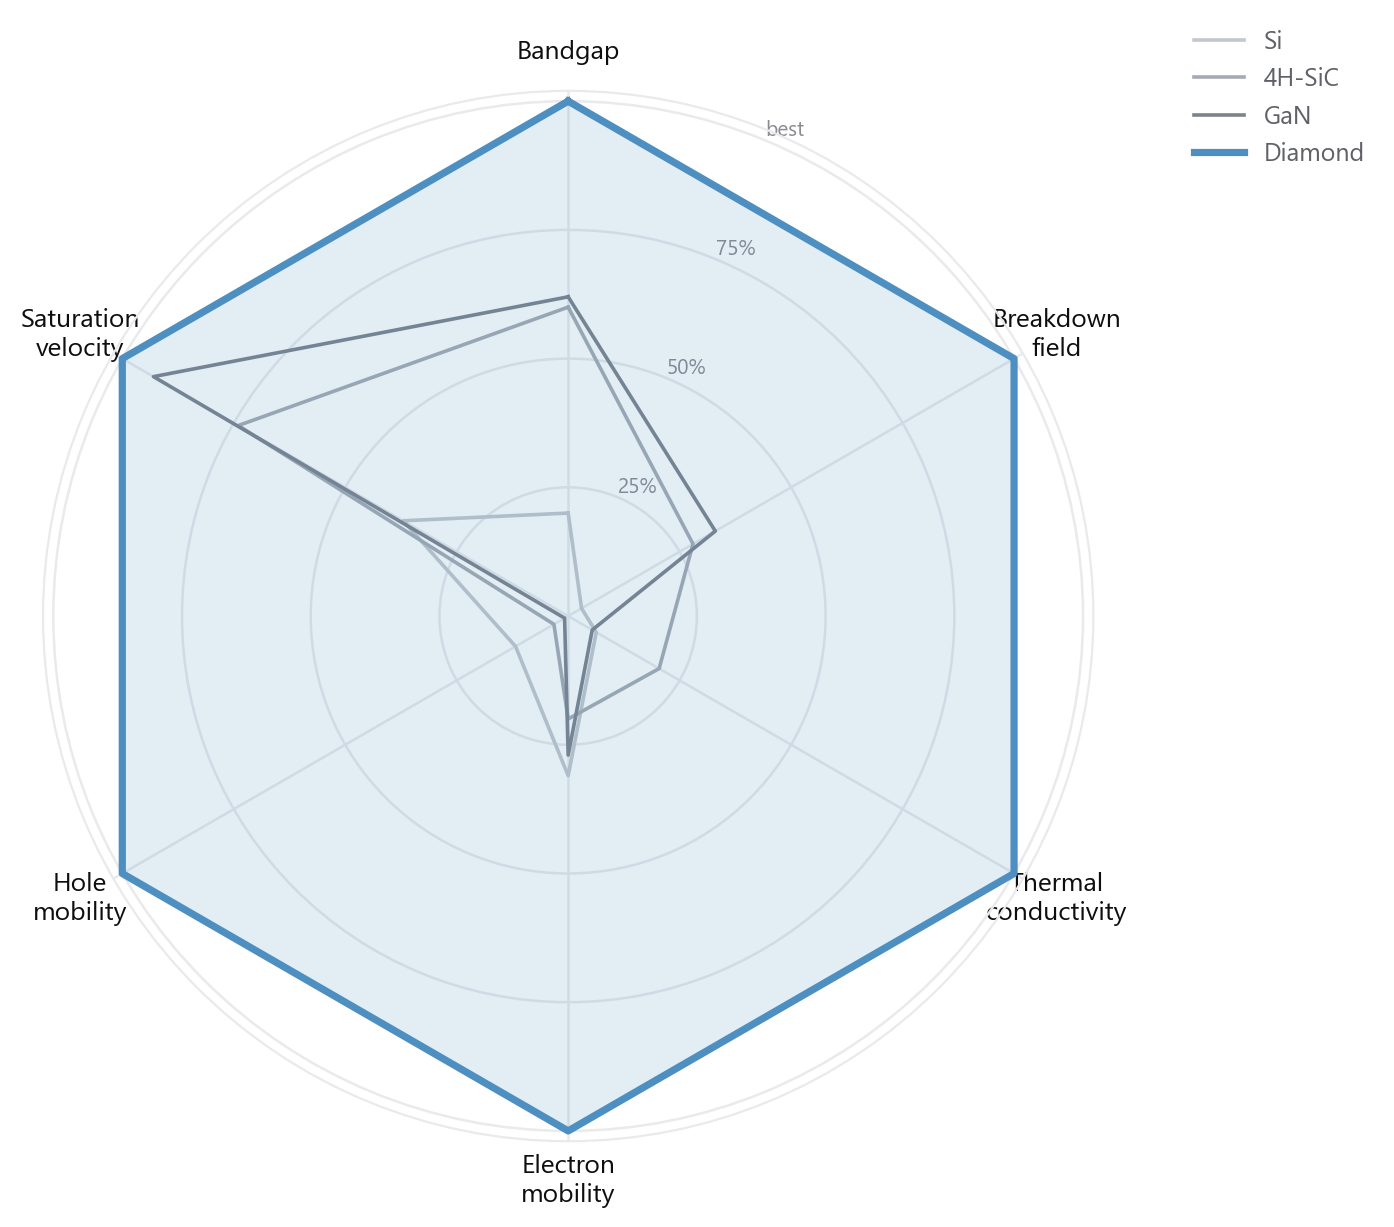
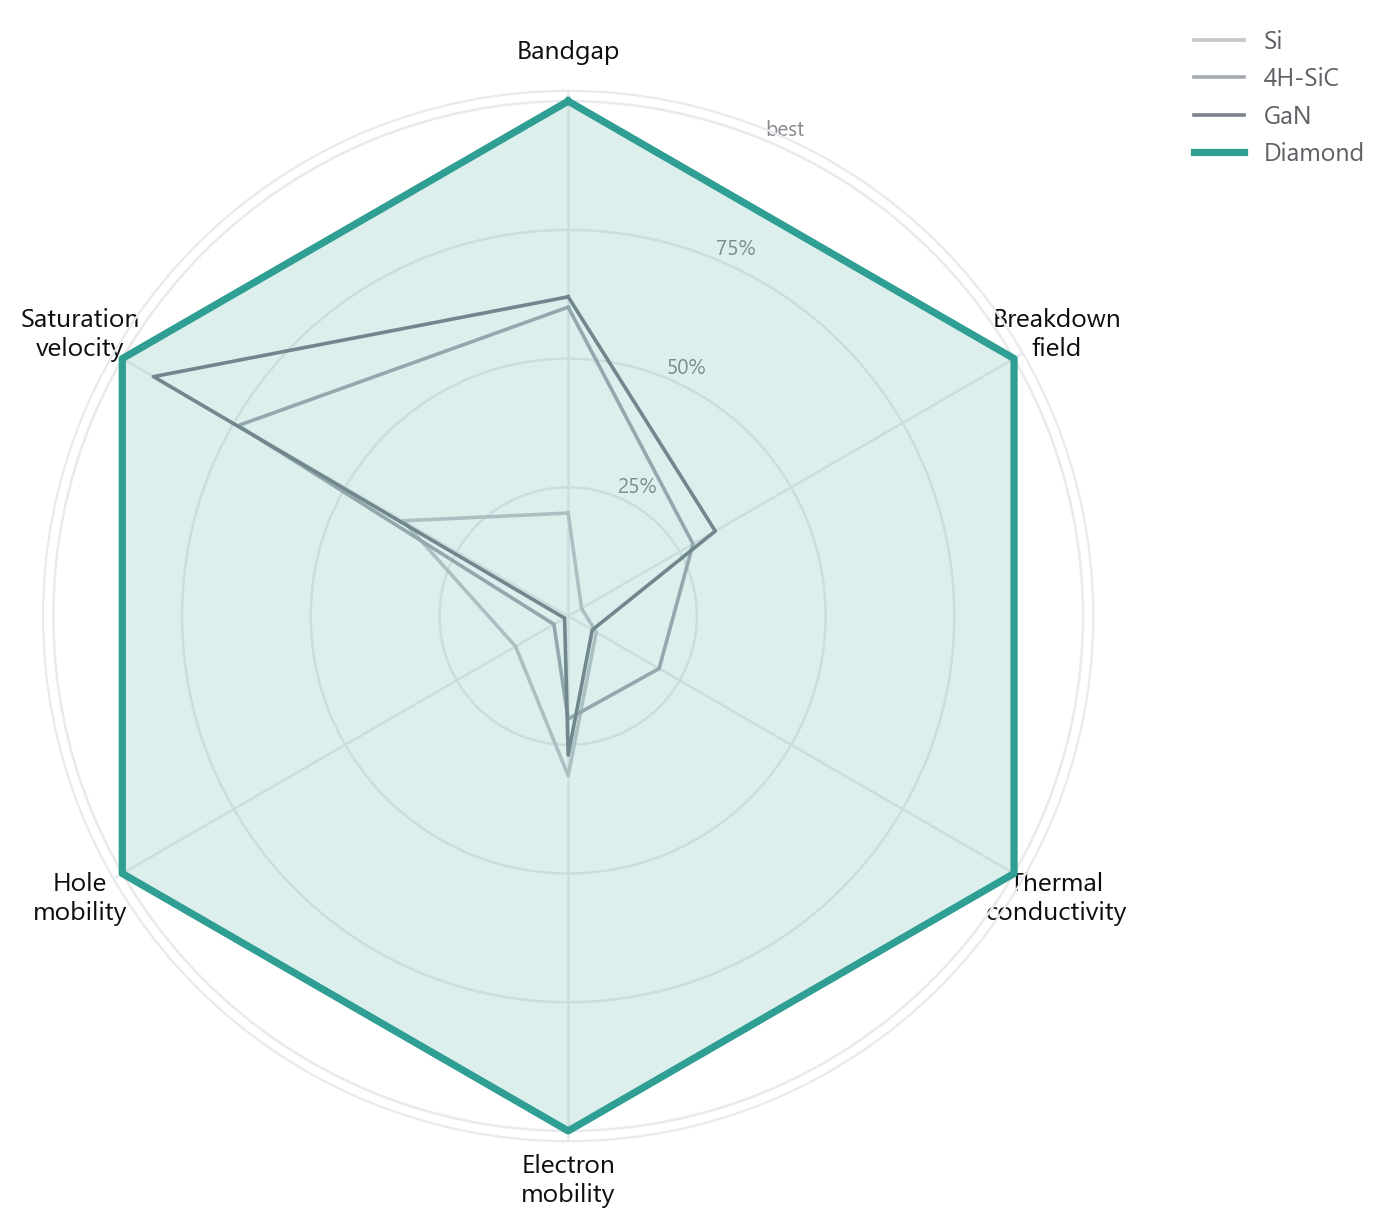
Teal accent (color round 2), LinkedIn + karalabs.ai email, inquiry API
- Deep teal #2f9e93 across charts and site accent after second color
  exploration (teal/violet/emerald vs blue)
- LinkedIn: linkedin.com/company/kara-labs in footer and contact page
- Email everywhere: [email redacted]
- Contact form now POSTs to /api/inquiry (Vercel serverless, Vercel
  KV storage with log fallback); /api/inquiries?key= to view; mailto
  fallback when offline

diff --git a/contact.html b/contact.html
@@ -12,7 +12,7 @@
   :root {
     --white:#ffffff; --paper:#f5f5f6; --line:#e9eaec;
     --ink:#0e0e10; --graphite:#5f6166; --muted:#8a8a90; --faint:#c2c2c8;
-    --steel:#6f8fa6; --steel-faint:#eef2f4;
+    --steel:#2f9e93; --steel-faint:#e9f5f3;
     --ease-out:cubic-bezier(0.16,1,0.3,1);
     --pad:clamp(24px,5.5vw,100px);
     --sans:'Inter', system-ui, sans-serif;
@@ -99,9 +99,10 @@
     <h1>Talk to us.</h1>
     <p class="lead">Whether you need a single research substrate or a roadmap to <b>delta-doped quantum material</b>, it starts with one conversation. Tell us what you're building and we'll tell you what the crystal can do.</p>
     <div class="direct">
-      <div class="d-row"><span class="k">email</span><a href="mailto:[email redacted]">[email redacted]</a></div>
+      <div class="d-row"><span class="k">email</span><a href="mailto:[email redacted]">[email redacted]</a></div>
       <div class="d-row"><span class="k">response</span><span class="v">within 2 business days</span></div>
       <div class="d-row"><span class="k">specifications</span><span class="v">full spec sheets under NDA</span></div>
+      <div class="d-row"><span class="k">linkedin</span><a href="https://www.linkedin.com/company/kara-labs" target="_blank" rel="noopener">kara-labs</a></div>
       <div class="d-row"><span class="k">sources</span><a href="sources.html">research library →</a></div>
     </div>
   </div>
@@ -132,7 +133,7 @@
       <textarea id="msg" name="msg" required placeholder="Application, quantities, timeline, target specs..."></textarea>
     </div>
     <button class="send" type="submit">Send inquiry</button>
-    <p class="f-note">Submitting opens your email client with the inquiry pre-filled, addressed to [email redacted]. Nothing is stored on this site.</p>
+    <p class="f-note">Submitting opens your email client with the inquiry pre-filled, addressed to [email redacted]. Nothing is stored on this site.</p>
   </form>
 </main>
 
@@ -142,14 +143,33 @@
 </footer>
 
 <script>
-  document.getElementById('inquiry').addEventListener('submit', function(e){
+  const form = document.getElementById('inquiry');
+  const sendBtn = form.querySelector('.send');
+  form.addEventListener('submit', async function(e){
     e.preventDefault();
     const v = id => document.getElementById(id).value.trim();
-    const subject = '[KARA inquiry] ' + v('topic') + ' — ' + v('name');
-    const body = v('msg') + '\n\n—\n' + v('name')
-      + (v('org') ? '\n' + v('org') : '')
-      + '\n' + v('email');
-    location.href = 'mailto:[email redacted]?subject=' + encodeURIComponent(subject) + '&body=' + encodeURIComponent(body);
+    const data = { name: v('name'), email: v('email'), org: v('org'), topic: v('topic'), msg: v('msg') };
+
+    // primary path: store the inquiry server-side
+    try {
+      const r = await fetch('/api/inquiry', {
+        method: 'POST',
+        headers: { 'Content-Type': 'application/json' },
+        body: JSON.stringify(data)
+      });
+      if (r.ok) {
+        sendBtn.textContent = 'Sent. We reply within 2 business days';
+        sendBtn.disabled = true;
+        sendBtn.style.opacity = '0.75';
+        form.reset();
+        return;
+      }
+    } catch (err) { /* offline or local file: fall through to email */ }
+
+    // fallback: open a pre-filled email
+    const subject = '[KARA inquiry] ' + data.topic + ' - ' + data.name;
+    const body = data.msg + '\n\n-\n' + data.name + (data.org ? '\n' + data.org : '') + '\n' + data.email;
+    location.href = 'mailto:[email redacted]?subject=' + encodeURIComponent(subject) + '&body=' + encodeURIComponent(body);
   });
 </script>
 </body>

diff --git a/api/inquiry.js b/api/inquiry.js
@@ -1,0 +1,30 @@
+// POST /api/inquiry — stores contact-form submissions.
+// Persists to Vercel KV when configured; always logs so submissions
+// are visible in Vercel runtime logs regardless.
+export default async function handler(req, res) {
+  if (req.method !== 'POST') {
+    return res.status(405).json({ ok: false, error: 'POST only' });
+  }
+  const b = req.body || {};
+  const entry = {
+    name: String(b.name || '').slice(0, 200),
+    email: String(b.email || '').slice(0, 200),
+    org: String(b.org || '').slice(0, 200),
+    topic: String(b.topic || '').slice(0, 100),
+    msg: String(b.msg || '').slice(0, 4000),
+    ts: new Date().toISOString(),
+  };
+  if (!entry.email || !entry.msg) {
+    return res.status(400).json({ ok: false, error: 'email and message required' });
+  }
+  console.log('KARA_INQUIRY', JSON.stringify(entry));
+  try {
+    const { kv } = await import('@vercel/kv');
+    await kv.lpush('inquiries', JSON.stringify(entry));
+    await kv.ltrim('inquiries', 0, 999);
+    return res.status(200).json({ ok: true, stored: 'kv' });
+  } catch (e) {
+    // KV not configured yet: submission still captured in logs
+    return res.status(200).json({ ok: true, stored: 'log' });
+  }
+}

diff --git a/api/inquiries.js b/api/inquiries.js
@@ -1,0 +1,19 @@
+// GET /api/inquiries?key=YOUR_KEY — view stored inquiries.
+// Set INQUIRY_KEY in Vercel project env vars to enable.
+export default async function handler(req, res) {
+  const key = process.env.INQUIRY_KEY;
+  if (!key) {
+    return res.status(503).json({ ok: false, error: 'Set INQUIRY_KEY env var in Vercel to enable this endpoint.' });
+  }
+  if ((req.query.key || '') !== key) {
+    return res.status(401).json({ ok: false, error: 'unauthorized' });
+  }
+  try {
+    const { kv } = await import('@vercel/kv');
+    const raw = await kv.lrange('inquiries', 0, 199);
+    const items = raw.map(r => { try { return JSON.parse(r); } catch { return r; } });
+    return res.status(200).json({ ok: true, count: items.length, items });
+  } catch (e) {
+    return res.status(503).json({ ok: false, error: 'Vercel KV not configured. Create a KV store in the Vercel dashboard and link it to this project.' });
+  }
+}

diff --git a/index.html b/index.html
@@ -18,8 +18,8 @@
     --graphite:#5f6166;
     --muted:#8a8a90;
     --faint:#c2c2c8;
-    --steel:#4d8fc0;      /* one blue, matched to the charts */
-    --steel-faint:#eaf3f9;
+    --steel:#2f9e93;      /* deep teal, matched to the charts */
+    --steel-faint:#e9f5f3;
     --ease-out: cubic-bezier(0.16, 1, 0.3, 1);
     --ease-inout: cubic-bezier(0.19, 1, 0.22, 1);
     --pad: clamp(24px, 5.5vw, 100px);
@@ -714,7 +714,7 @@
         <div class="foot-cols">
           <div class="foot-col reveal d1"><h4>Materials</h4><a href="contact.html">Research Wafer</a><a href="contact.html">Optical Wafer</a><a href="contact.html">Thermal Wafer</a><a href="contact.html">NV Host Wafer</a><a href="contact.html">Delta-Doped Wafer</a><a href="contact.html">Thin Membrane</a><a href="contact.html">Engineered Chips</a></div>
           <div class="foot-col reveal d2"><h4>Applications</h4><a href="#applications">Quantum Networks</a><a href="#applications">Quantum Sensing</a><a href="#applications">Thermal for AI</a><a href="#applications">Photonics</a><a href="#applications">Power Electronics</a><a href="#applications">Research Platforms</a></div>
-          <div class="foot-col reveal d3"><h4>Connect</h4><a href="contact.html">Talk to us</a><a href="mailto:[email redacted]">[email redacted]</a><a href="#">LinkedIn</a><a href="sources.html">Works cited</a></div>
+          <div class="foot-col reveal d3"><h4>Connect</h4><a href="contact.html">Talk to us</a><a href="mailto:[email redacted]">[email redacted]</a><a href="https://www.linkedin.com/company/kara-labs" target="_blank" rel="noopener">LinkedIn</a><a href="sources.html">Works cited</a></div>
         </div>
       </div>
       <div class="foot-bottom"><span class="fmark"><svg viewBox="0 0 100 100" fill="none" stroke="currentColor" stroke-width="4"><path d="M50 4 L94 50 L50 96 L6 50 Z" /><path d="M6 50 L50 40 L94 50" /><path d="M50 4 L50 40 L50 96" /></svg> KARA · engineered diamond</span><span>grown to specification</span><span>© 2026 Kara, Inc.</span></div>
@@ -968,7 +968,7 @@
       sub:'The top of the ladder. We pattern, etch and integrate devices into our own material and deliver working structures built to your design.',
       specs:[['Built for','integrated quantum and photonic devices'],['Typical use','custom device runs'],['Delivery','design → fabrication → verification'],['Substrate','any Kara grade']] }
   };
-  const PRODUCT_NOTE = 'Full specification sheets are available under NDA. Write to [email redacted].';
+  const PRODUCT_NOTE = 'Full specification sheets are available under NDA. Write to [email redacted].';
 
   const APPS = {
     networks: { idx:'01 · application', title:'Quantum Networks', media:'satellite.mp4', specs:[],

diff --git a/sources.html b/sources.html
@@ -12,7 +12,7 @@
   :root {
     --white:#ffffff; --paper:#f5f5f6; --line:#e9eaec;
     --ink:#0e0e10; --graphite:#5f6166; --muted:#8a8a90;
-    --steel:#4d8fc0;
+    --steel:#2f9e93;
     --pad:clamp(24px,5.5vw,100px);
     --sans:'Inter', system-ui, sans-serif;
     --display:'Inter Tight','Inter',system-ui,sans-serif;
@@ -95,12 +95,12 @@
   <div class="ref">Degen, C. L., Reinhard, F., &amp; Cappellaro, P. (2017). Quantum sensing. <em>Rev. Mod. Phys., 89,</em> 035002. <a href="https://doi.org/10.1103/RevModPhys.89.035002" target="_blank" rel="noopener">doi:10.1103/RevModPhys.89.035002</a> <span class="use">Sensitivity limits and magnetometry theory.</span> <span class="st">canonical</span></div>
   <div class="ref">Maze, J. R., et al. (2008). Nanoscale magnetic sensing with an individual electronic spin in diamond. <em>Nature, 455,</em> 644–647. <a href="https://doi.org/10.1038/nature07279" target="_blank" rel="noopener">doi:10.1038/nature07279</a> <span class="use">Nanoscale magnetometry with a single NV spin.</span> <span class="st">canonical</span></div>
 
-  <p class="note">Intrinsic single-crystal, room-temperature values. Real-world diamond device performance is currently limited by doping and wafer-scale manufacturing, not by these intrinsic material limits. Questions or data-room access: <a href="mailto:[email redacted]">[email redacted]</a></p>
+  <p class="note">Intrinsic single-crystal, room-temperature values. Real-world diamond device performance is currently limited by doping and wafer-scale manufacturing, not by these intrinsic material limits. Questions or data-room access: <a href="mailto:[email redacted]">[email redacted]</a></p>
 </main>
 
 <footer>
   <span>KARA · engineered diamond</span>
-  <span><a href="index.html">kara</a> · <a href="mailto:[email redacted]">[email redacted]</a> · © 2026 Kara, Inc.</span>
+  <span><a href="index.html">kara</a> · <a href="mailto:[email redacted]">[email redacted]</a> · © 2026 Kara, Inc.</span>
 </footer>
 
 </body>

diff --git a/make_figs.py b/make_figs.py
@@ -1,9 +1,9 @@
-"""Regenerate research figures in the KARA site palette."""
+"""Regenerate research figures in the KARA site palette."""
 import numpy as np
 import matplotlib.pyplot as plt
 import matplotlib as mpl
 
-STEEL   = "#4d8fc0"   # diamond highlight (glacier blue)
+STEEL   = "#2f9e93"   # diamond highlight (deep teal)
 GRAY    = "#ccd0d6"   # other materials
 INK     = "#0e0e10"
 GRAPHITE= "#5f6166"
@@ -104,3 +104,4 @@ fig.savefig(r"C:\Users\Arjun\diamond-site\assets\fig3.png",
             facecolor="white", bbox_inches="tight")
 plt.close(fig)
 print("figures written")
+